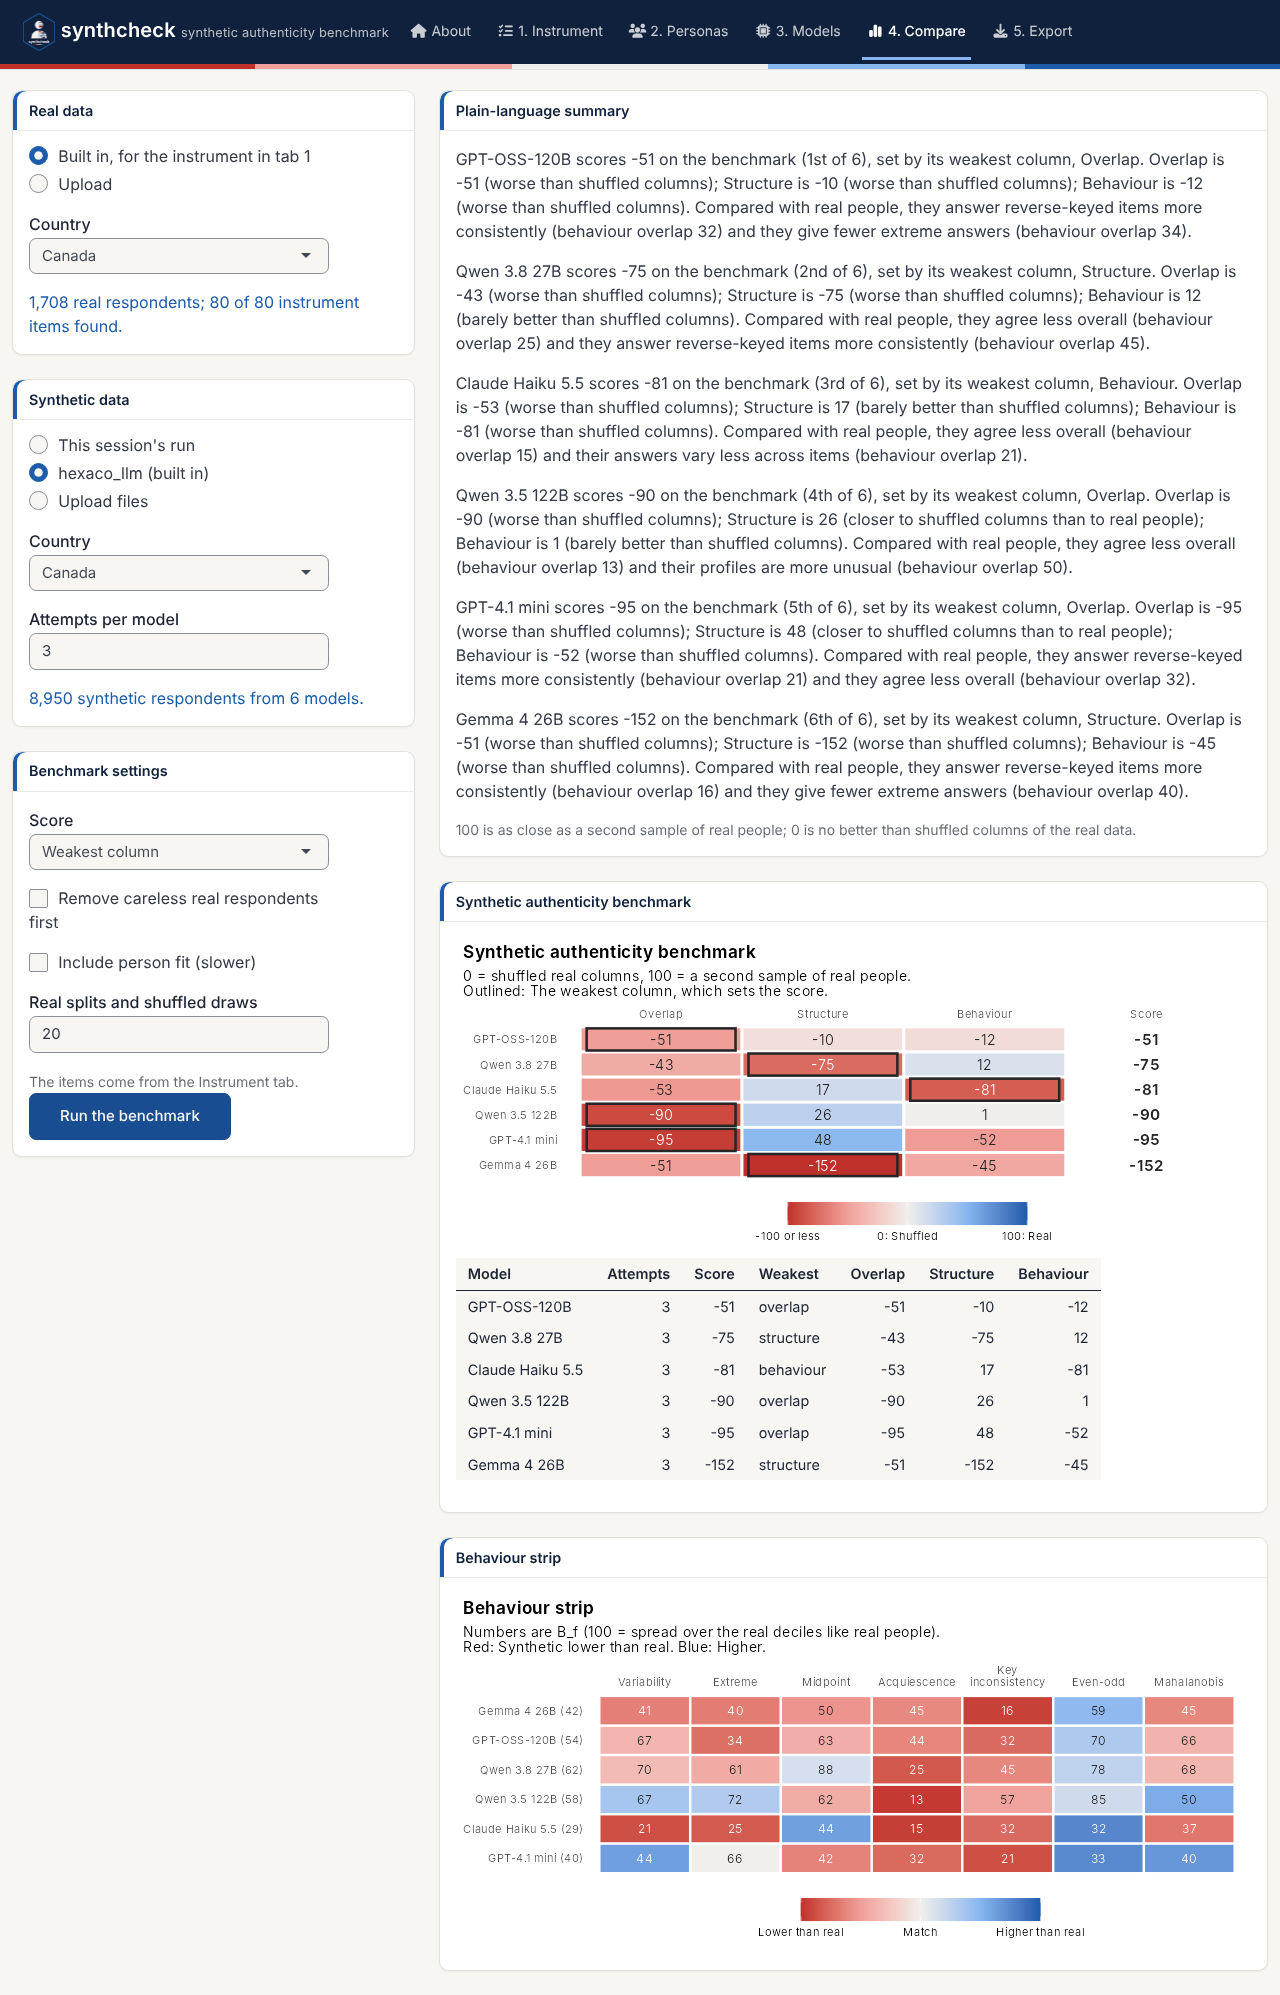
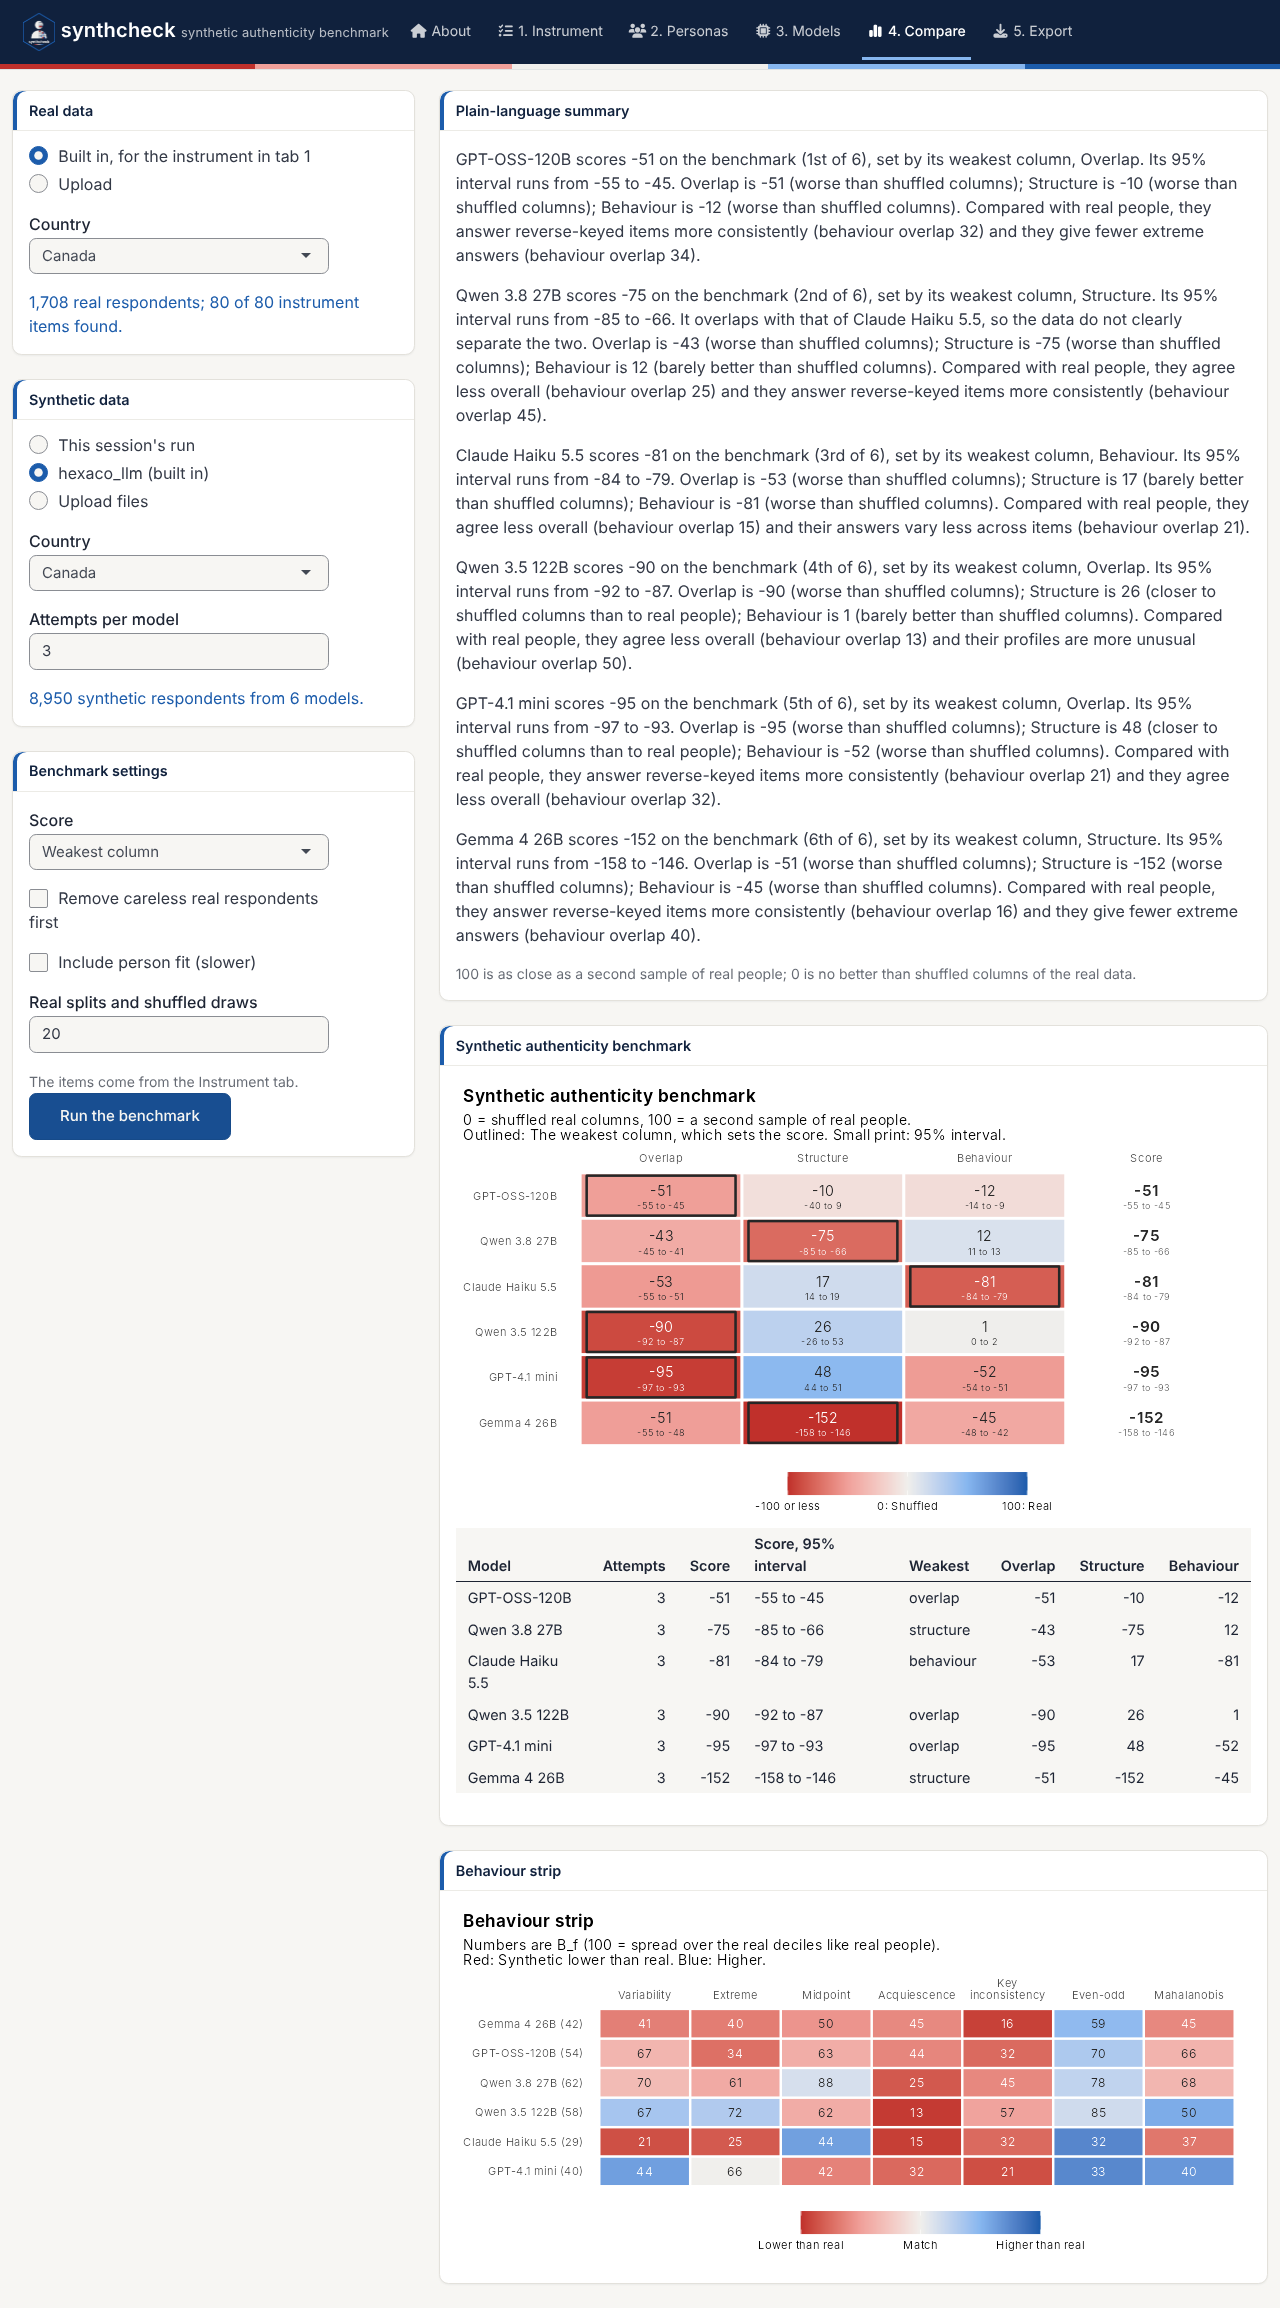
Show the persona check and benchmark intervals in the app and the articles
The Models tab gets a Persona check card after a run with two or more
personas; the Compare tab's plot grows to fit the intervals and its table
adds the score interval. The generate and benchmark articles explain both,
and the app tour and demos have new screenshots.

Claude-Session: https://claude.ai/code/session_01GraftrL844Jr4sK1eWcRA9

diff --git a/NEWS.md b/NEWS.md
@@ -16,6 +16,14 @@
   `summarise_benchmark()` says when a model's interval overlaps with the
   next one's.
 
+* The app's Models tab has a new **Persona check** card that runs
+  `persona_fidelity()` after a run with two or more personas, and the
+  Compare tab shows the intervals in the plot and the table.
+
+* The tutorial on generating synthetic respondents has a new section on the
+  persona check, the benchmark article explains the intervals, and the tour
+  of the app and the app demos show both, with new screenshots.
+
 
 * Three short instruments with well-documented item problems, each with
   real responses from the Open-Source Psychometrics Project: The Rosenberg
